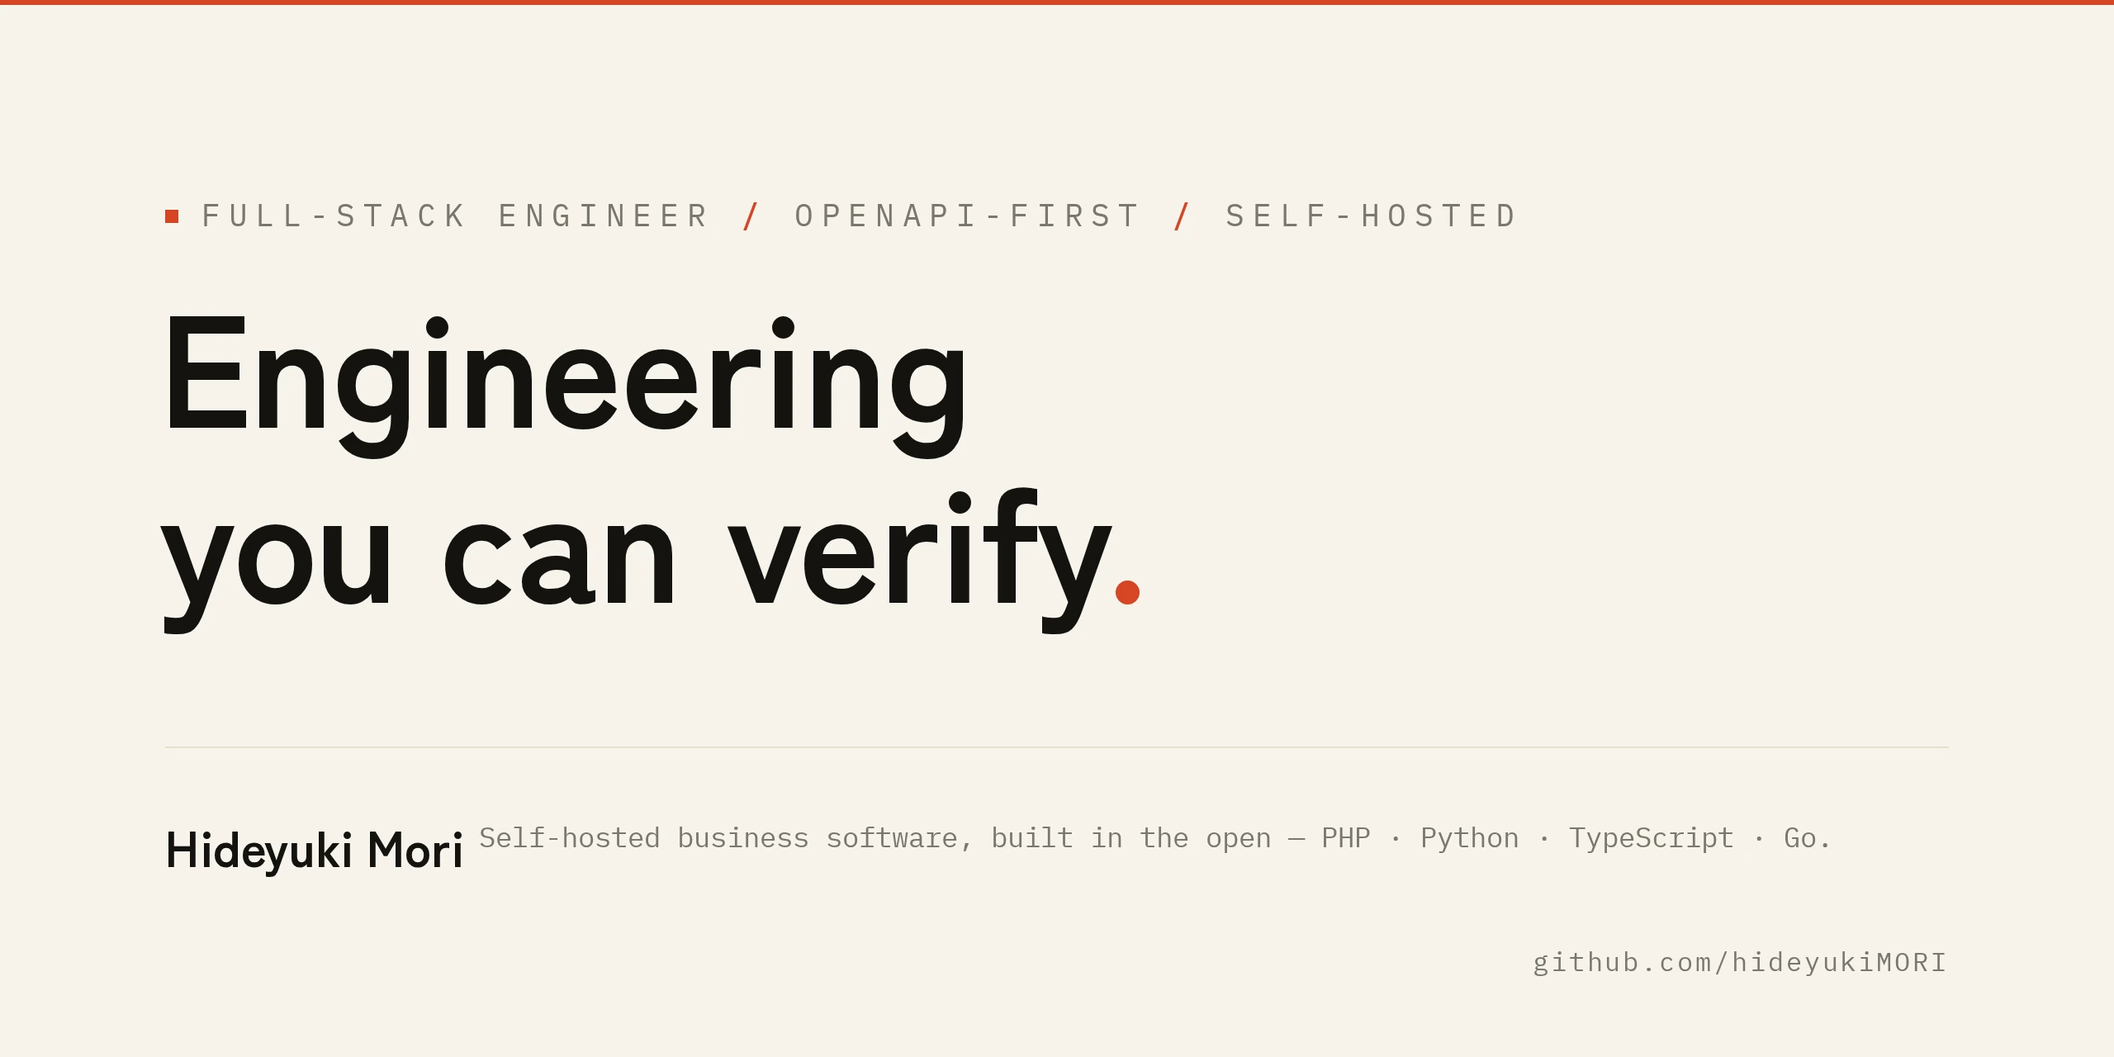
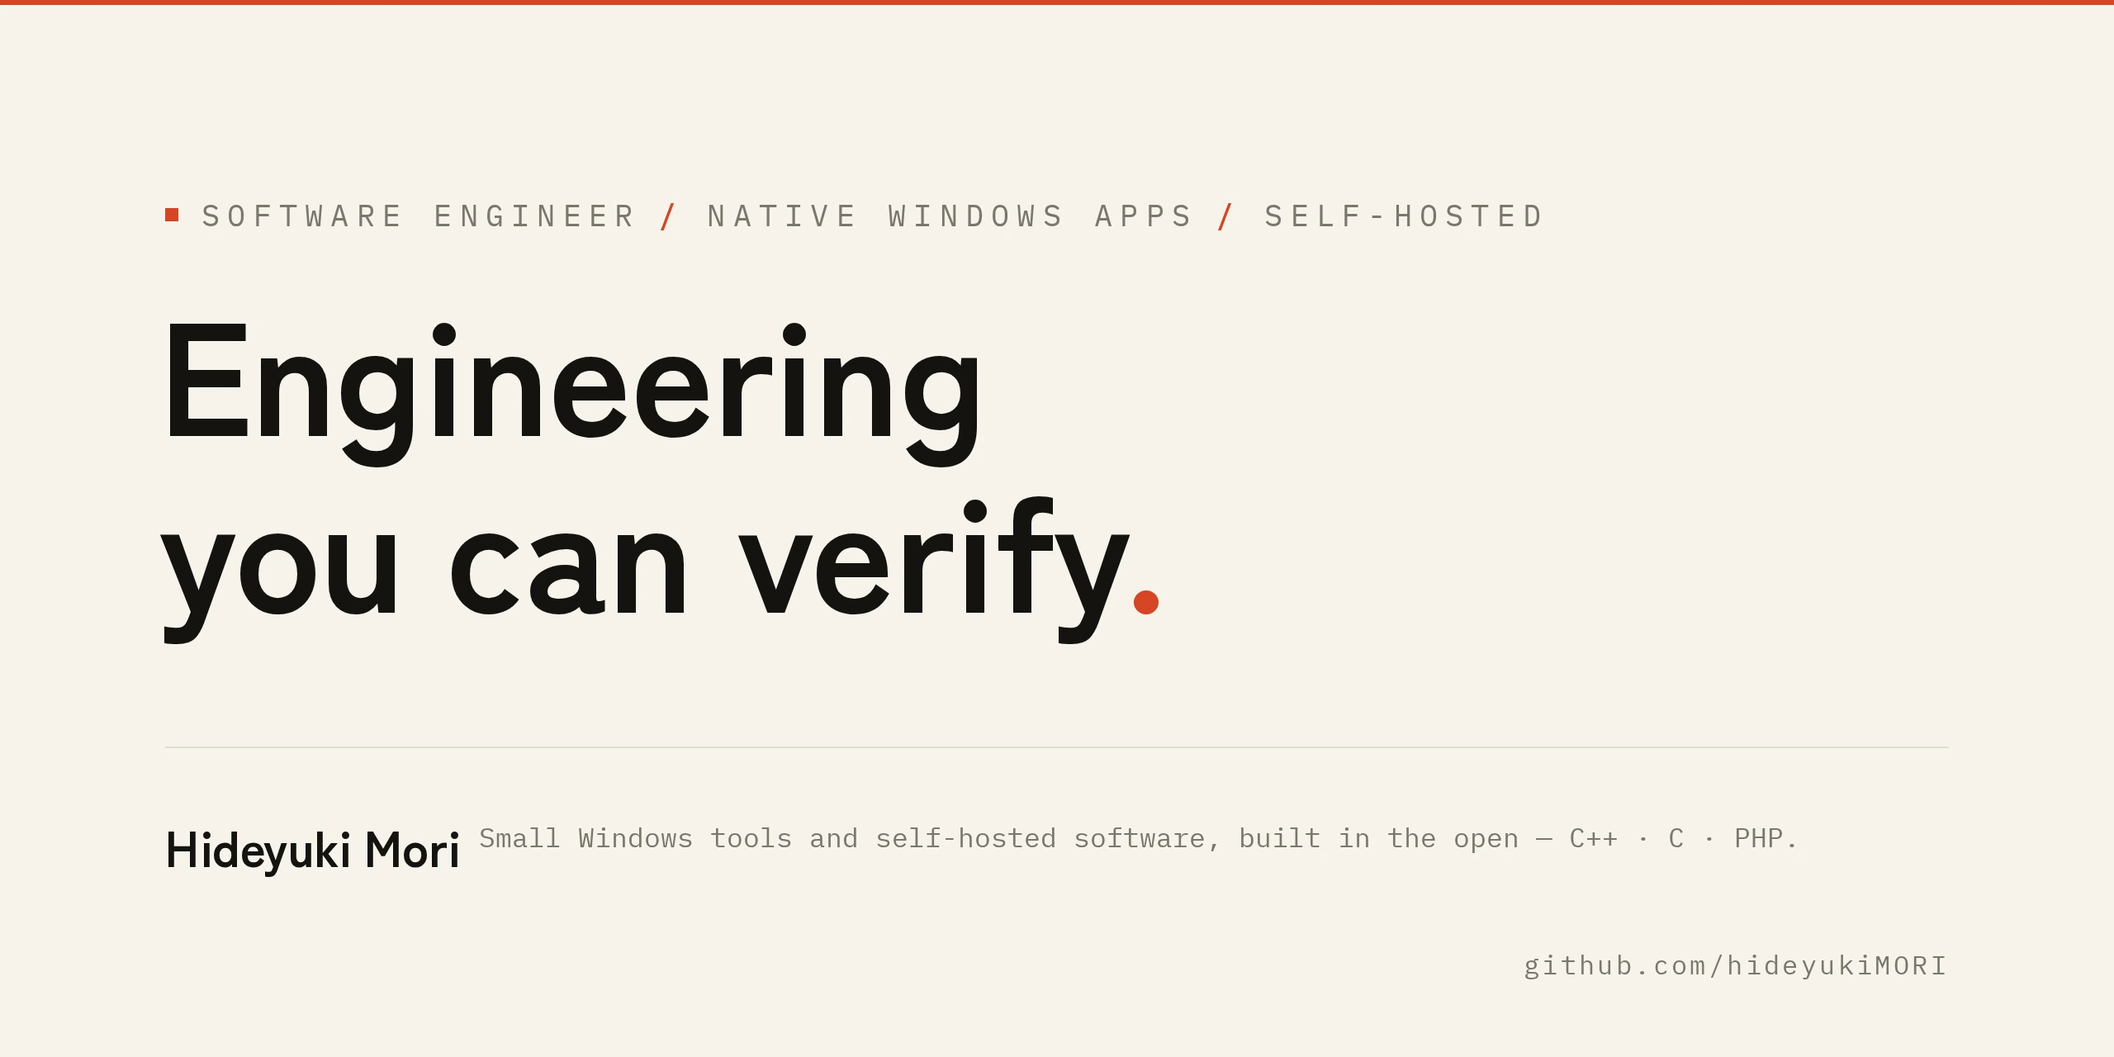
docs: NeNe Nib を先頭で紹介し、NENE2 シリーズは完成度の高いものだけ表に残す (#42)
* docs: NeNe Nib を先頭で紹介し、NENE2 シリーズは完成度の高いものだけ表に残す

- NeNe Nib の節を最上段に新設（機能・Vim 照合・日本語・速度の実測・未対応・ダウンロード）
- ほかの Windows アプリは「More Windows apps」にまとめる
- NENE2 シリーズは NENE2 / nene2-python / Records / Invoice / Corpus / Contact の 6 行にし、残りはリンクの 1 行へ

* docs: 裏の取れていない「毎日使っている」を外す

* docs: ヒーロー画像の文言を Windows アプリ中心に差し替える

- 上段: SOFTWARE ENGINEER / NATIVE WINDOWS APPS / SELF-HOSTED
- 下段: Small Windows tools and self-hosted software, built in the open — C++ · C · PHP.
- 見出し・配色・書体・配置は従来どおり（Zen Kaku Gothic New 700 / IBM Plex Mono）
- 描き出し元の HTML を assets/src/hero.html に置く（1280x640 を 2 倍で撮る。html に class="dark" で暗色）

---------

diff --git a/assets/src/hero.html b/assets/src/hero.html
@@ -1,0 +1,26 @@
+<!doctype html><html><head><meta charset="utf-8">
+<link href="https://fonts.googleapis.com/css2?family=Zen+Kaku+Gothic+New:wght@500;700&family=IBM+Plex+Mono:wght@400;500&display=block" rel="stylesheet">
+<style>
+:root{--bg:#F6F3EC;--ink:#14120F;--mute:#7b766b;--rule:#e2ddd0;--accent:#D64525}
+html.dark{--bg:#14120F;--ink:#F6F3EC;--mute:#a09a8d;--rule:#2a2722}
+*{margin:0;box-sizing:border-box}
+body{width:1280px;height:640px;background:var(--bg);color:var(--ink);position:relative;overflow:hidden;font-family:"Zen Kaku Gothic New",sans-serif}
+.bar{position:absolute;inset:0 0 auto 0;height:3px;background:var(--accent)}
+.eyebrow{position:absolute;left:100px;top:121px;font:400 18.5px/1 "IBM Plex Mono",monospace;letter-spacing:.25em;color:var(--mute);display:flex;align-items:center;white-space:nowrap}
+.eyebrow i{width:8px;height:8px;background:var(--accent);margin-right:14px}
+.eyebrow b{font-weight:500;color:var(--accent);margin:0 .75em 0 .6em}
+h1{position:absolute;left:96px;top:168px;font-weight:700;font-size:97.5px;line-height:107px;letter-spacing:-.01em}
+h1 span{color:var(--accent)}
+.rule{position:absolute;left:100px;right:100px;top:452px;height:1px;background:var(--rule)}
+.name{position:absolute;left:100px;top:492px;font-weight:700;font-size:30px;line-height:40px;letter-spacing:-.005em}
+.line{position:absolute;left:290px;top:495px;font:400 16.6px/24px 'IBM Plex Mono',monospace;color:var(--mute);white-space:nowrap}
+.url{position:absolute;right:100px;top:572px;font:400 16px/24px 'IBM Plex Mono',monospace;letter-spacing:.075em;color:var(--mute)}
+</style></head><body>
+<div class="bar"></div>
+<div class="eyebrow"><i></i>SOFTWARE ENGINEER <b>/</b> NATIVE WINDOWS APPS <b>/</b> SELF-HOSTED</div>
+<h1>Engineering<br>you can verify<span>.</span></h1>
+<div class="rule"></div>
+<div class="name">Hideyuki Mori</div>
+<div class="line">Small Windows tools and self-hosted software, built in the open — C++ · C · PHP.</div>
+<div class="url">github.com/hideyukiMORI</div>
+</body></html>

diff --git a/README.md b/README.md
@@ -8,15 +8,35 @@
 
 ### Software engineer. I build small Windows desktop tools and self-hosted business software in the open, and I put the proof next to every claim.
 
-These days most of my open-source time goes into **native Windows applications** — small, frameless, single-purpose tools written without a UI library. Alongside them I maintain the **NENE2 series**: MIT-licensed, self-hosted business software on one design language across PHP, Python, and TypeScript. Everything below is public and checkable: the code, the tests, the releases, and the architecture decisions.
+These days most of my open-source time goes into **native Windows applications** — small, frameless, single-purpose tools written without a UI library. The one I am working on hardest right now is **[NeNe Nib](#nene-nib--a-fast-text-editor-that-toggles-between-ordinary-and-vim-editing)**, a text editor. Alongside them I maintain the **NENE2 series** of self-hosted business software. Everything below is public and checkable: the code, the tests, the releases, and the architecture decisions.
 
-<sub>日本語: ソフトウェアエンジニア。いまは Windows 向けの小さなネイティブアプリ（UI ライブラリを使わない、枠なし・単機能の道具）を中心に公開開発しています。あわせて、MIT ライセンスの自己ホスト型業務ツール群「NENE2 シリーズ」を保守しています。このページの数字はすべてリンク先で確かめられます。</sub>
+<sub>日本語: ソフトウェアエンジニア。いまは Windows 向けの小さなネイティブアプリ（UI ライブラリを使わない、枠なし・単機能の道具）を中心に公開開発しています。いちばん力を入れているのはテキストエディタ「NeNe Nib」です。あわせて、自己ホスト型業務ツール群「NENE2 シリーズ」を保守しています。このページの数字はすべてリンク先で確かめられます。</sub>
 
 ---
 
-## Windows apps
+## NeNe Nib — a fast text editor that toggles between ordinary and Vim editing
 
-Small tools I use every day. No UI library, no runtime to install, one executable where the platform allows it. Snapshot: October 2026.
+**[github.com/hideyukiMORI/nene-nib](https://github.com/hideyukiMORI/nene-nib)** · Windows 11 x64 · **Beta — [download v0.1.0-beta.2](https://github.com/hideyukiMORI/nene-nib/releases/tag/v0.1.0-beta.2)** (a 0.6 MB ZIP with `SHA256SUMS`; extract and run `NeNeNib.exe`, no installer and no runtime)
+
+One executable. C++23, plain Win32, Direct2D and DirectWrite — no UI library, no runtime dependency. It edits like Notepad until you flip one switch in the status bar; then it is Vim.
+
+| | |
+| --- | --- |
+| **Two ways to edit, one toggle** | Ordinary editing (selection, clipboard, undo/redo, mouse) or Vim NORMAL / INSERT / VISUAL — motions, operators, counts, text objects, registers, macros, `.` repeat, blockwise VISUAL, search with highlighting. |
+| **A Vim engine written from scratch, checked against real Vim** | **1,853 fixtures generated by Vim 9.1** are replayed in the test suite, plus 78 more for movement in wrapped text. What is not implemented yet is listed in the README, command by command. |
+| **Japanese from day one** | IME composition drawn in place; Vim NORMAL turns the IME off and INSERT turns it back on. UTF-8, UTF-8 BOM, and Shift_JIS; CRLF / LF kept as read. |
+| **Tabs and Ctrl+P** | Tabs live in the title bar and come back on the next start with caret and scroll position. Ctrl+P fuzzy-finds open tabs, bookmarks, recently closed files, and files in the current folder. Drop files from Explorer to open them. |
+| **Look** | Frameless window with a Mica title bar, follows the OS light / dark theme. **95 built-in colour schemes** (`:colorscheme`), plus user themes. Line wrapping, font size on Ctrl + wheel. |
+| **Speed, measured** | On the reference machine: startup 191 ms, window visible 35 ms, one keystroke 0.9 ms, a 16 MiB file opens in 250 ms. The benchmark script and reference values are in the repo. |
+| **Not yet** | Markdown preview, files above 64 MiB, syntax highlighting, `:s` / `:g`, split windows. No code signing, installer, or auto-update in the beta. |
+
+Every feature is one numbered requirement in [`SPECIFICATION.md`](https://github.com/hideyukiMORI/nene-nib/blob/main/SPECIFICATION.md); the decisions are in [`docs/adr/`](https://github.com/hideyukiMORI/nene-nib/tree/main/docs/adr) and the measurements in [`docs/quality/gate-proofs.md`](https://github.com/hideyukiMORI/nene-nib/blob/main/docs/quality/gate-proofs.md).
+
+---
+
+## More Windows apps
+
+Small, single-purpose tools. No UI library, no runtime to install. Snapshot: October 2026.
 
 <p align="center">
   <a href="https://apps.microsoft.com/detail/9N6HZB1SXKBM"><img alt="NeNe Loupe — a magnified grid of screen pixels with the centre pixel outlined, and its colour shown as #33E699" src="assets/nene-loupe.webp" width="49%"></a>
@@ -28,19 +48,12 @@ Small tools I use every day. No UI library, no runtime to install, one executabl
 | --- | --- | --- | --- |
 | **[NeNe Loupe](https://github.com/hideyukiMORI/nene-loupe)** | A tiny frameless screen loupe and colour picker. See the pixels behind the lens, copy the colour in the centre. | C++23 · Win32 | **On the [Microsoft Store](https://apps.microsoft.com/detail/9N6HZB1SXKBM)** · [v1.0.0](https://github.com/hideyukiMORI/nene-loupe/releases/latest) · portable ZIP also available |
 | **[NeNe Clock](https://github.com/hideyukiMORI/nene-clock)** | A quiet desktop clock. No frame, no buttons, no tray icon — just the time, in the typeface and colours you choose. | Java 21 · Swing | [v0.2.6](https://github.com/hideyukiMORI/nene-clock/releases/latest) — Windows installer, portable ZIP, Ubuntu `.deb` · Microsoft Store listing in preparation |
-| **[NeNe Nib](https://github.com/hideyukiMORI/nene-nib)** | A fast single-executable text editor that toggles between ordinary editing and Vim editing. Japanese IME, tabs that come back on the next start, 95 built-in themes. | C++23 · Win32 · Direct2D / DirectWrite | **Beta** · [v0.1.0-beta.2](https://github.com/hideyukiMORI/nene-nib/releases/tag/v0.1.0-beta.2) for Windows 11 x64 |
 | **[NeNe Folio](https://github.com/hideyukiMORI/nene-folio)** | A frameless Markdown notebook with a category drawer. View and edit, a short history of every save, search and regex replace, Vim-like keys; UI in 日本語 / English / 简体中文. | C23 · Win32 | v0.1.0 — usable from source · no packaged download yet |
-| **[NeNe Commander](https://github.com/hideyukiMORI/NeNeCommander)** | A keyboard-first dual-pane file manager; Windows, UNC, and WSL paths as typed, explicit boundaries. | C# · .NET 10 · WinUI 3 | In development — most of the MVP scope is on `main`: Vim-first dual panes, fail-closed copy / move / rename / delete on Windows local paths and inside a WSL distribution, UNC directory reads, copy from Windows into WSL · no download yet |
+| **[NeNe Commander](https://github.com/hideyukiMORI/NeNeCommander)** | A keyboard-first dual-pane file manager; Windows, UNC, and WSL paths as typed, explicit boundaries. | C# · .NET 10 · WinUI 3 | In development — most of the MVP scope is on `main` · no download yet |
 
-**How they are built.** Each repository starts from a specification, an architecture constitution, and a test strategy before the first feature. The rule is the same in every one: *every meaning has exactly one canonical implementation path, and the compiler, the build graph, static analysis, and CI enforce that — not memory.* NeNe Nib's Vim mode, for example, is replayed against real Vim 9.1 through 1,853 oracle-generated fixtures. The documents and the measurements are in each repo (`SPECIFICATION.md`, `docs/adr/`, `docs/quality/gate-proofs.md`).
+**How they are built.** Each repository starts from a specification, an architecture constitution, and a test strategy before the first feature. The rule is the same in every one: *every meaning has exactly one canonical implementation path, and the compiler, the build graph, static analysis, and CI enforce that — not memory.*
 
-### Also outside the web stack
-
-| Repo | Ecosystem | What it is |
-| --- | --- | --- |
-| **[NENE-PIXEL](https://github.com/hideyukiMORI/NENE-PIXEL)** | Kotlin · Android | Pixel drawing tool for Android 8.0+ — indexed palettes, up to 16 layers, PNG import/export, reference underlay; single-frame, in development |
-| **[xi-tools](https://github.com/hideyukiMORI/xi-tools)** | Rust | Tools for a many-repo workflow — `scopegrep` (grep that reports *where in the structure* a hit lives), `fleet-top` (dozens of repos on one screen) |
-| **[nene-recall](https://github.com/hideyukiMORI/nene-recall)** | Go · PostgreSQL · pgvector | Hybrid vector + lexical retrieval API, fully local |
+Also outside the web stack: **[NENE-PIXEL](https://github.com/hideyukiMORI/NENE-PIXEL)** (Kotlin · Android — pixel drawing tool with indexed palettes and up to 16 layers, in development) · **[xi-tools](https://github.com/hideyukiMORI/xi-tools)** (Rust — `scopegrep`, `fleet-top`) · **[nene-recall](https://github.com/hideyukiMORI/nene-recall)** (Go · pgvector — local hybrid retrieval API)
 
 ---
 
@@ -50,7 +63,7 @@ Numbers are **measured, not claimed** — each links to where you can check it y
 
 | | |
 | --- | --- |
-| **Shipped** | [NeNe Loupe on the Microsoft Store](https://apps.microsoft.com/detail/9N6HZB1SXKBM) · [NeNe Clock installers](https://github.com/hideyukiMORI/nene-clock/releases/latest) · [NeNe Nib beta](https://github.com/hideyukiMORI/nene-nib/releases/tag/v0.1.0-beta.2) |
+| **Shipped** | [NeNe Nib beta](https://github.com/hideyukiMORI/nene-nib/releases/tag/v0.1.0-beta.2) · [NeNe Loupe on the Microsoft Store](https://apps.microsoft.com/detail/9N6HZB1SXKBM) · [NeNe Clock installers](https://github.com/hideyukiMORI/nene-clock/releases/latest) |
 | **Scale** | **10,900+ merged PRs** across my own repositories ([verify](https://github.com/search?q=is%3Apr+is%3Amerged+author%3AhideyukiMORI+owner%3AhideyukiMORI&type=pullrequests)) · **42 public repos** |
 | **Languages** | C++23 · C23 · Java 21 · C# · Kotlin · Rust · Go · PHP 8.4 · Python 3.14 · TypeScript |
 | **Background** | 25 years of JavaScript and 20 years of PHP as a working engineer, from customer hearings through design, implementation, and operation |
@@ -59,46 +72,20 @@ Numbers are **measured, not claimed** — each links to where you can check it y
 
 ## NENE2 series — status
 
-MIT · self-hosted · OpenAPI-first JSON APIs · RFC 9457 Problem Details · MCP-ready boundaries. Separate repos, separate databases, HTTP contracts only.
+MIT-licensed, self-hosted business software on one design language: OpenAPI-first JSON APIs, RFC 9457 Problem Details, MCP-ready boundaries.
 
-Running: [nene-records.com](https://nene-records.com) · [nene-corpus.com](https://nene-corpus.com) · [NeNe Invoice demo](https://invoice.ayane.co.jp/demo/kensetsu) (a fresh disposable environment per click).
-
-### Frameworks
-
-| Runtime | Stack | Latest | Install |
-| --- | --- | --- | --- |
-| **[NENE2](https://github.com/hideyukiMORI/NENE2)** | PHP 8.4 · OpenAPI · MCP catalog | [v1.12.0](https://github.com/hideyukiMORI/NENE2/releases) | `composer require hideyukimori/nene2` |
-| **[nene2-python](https://github.com/hideyukiMORI/nene2-python)** | FastAPI · `mypy --strict` · Pydantic v2 | [v1.8.164](https://github.com/hideyukiMORI/nene2-python/releases) | `uv add nene2-python` |
-| **[nene2-node](https://github.com/hideyukiMORI/nene2-node)** | Hono · TypeScript strict | [v0.3.0](https://github.com/hideyukiMORI/nene2-node/releases) | `npm i @hideyukimori/nene2-framework` |
-| **[NeNe](https://github.com/hideyukiMORI/NeNe)** | PHP 8.4 · Smarty · a legacy framework renovated in the open | [v0.3.0](https://github.com/hideyukiMORI/NeNe/releases) | [Demo](https://nene-php.com/) |
-
-Frontend standards on npm ([nene2-fleet-tooling](https://github.com/hideyukiMORI/nene2-fleet-tooling)): [`nene2-tokens`](https://www.npmjs.com/package/@hideyukimori/nene2-tokens) v1.3.0 · [`nene2-standards`](https://www.npmjs.com/package/@hideyukimori/nene2-standards) v2.4.0 · [`nene2-ui`](https://www.npmjs.com/package/@hideyukimori/nene2-ui) v0.21.0 · [`nene2-i18n`](https://www.npmjs.com/package/@hideyukimori/nene2-i18n) v0.3.2
-
-### Products
-
-| Product | One line | Status |
+| | What it is | Status |
 | --- | --- | --- |
-| **[NeNe Records](https://github.com/hideyukiMORI/nene-records)** | Headless CMS — typed entities, React admin, multi-tenant | Production SaaS · [v0.5.4](https://github.com/hideyukiMORI/nene-records/releases) |
-| **[NeNe Invoice](https://github.com/hideyukiMORI/nene-invoice)** | 見積・請求・入金 — 適格請求書 PDF | [v1.0.0](https://github.com/hideyukiMORI/nene-invoice/releases) · live demo |
-| **[NeNe Corpus](https://github.com/hideyukiMORI/nene-corpus)** | Knowledge chat with citations | Live |
+| **[NENE2](https://github.com/hideyukiMORI/NENE2)** | PHP 8.4 micro-framework — OpenAPI, MCP catalog, PHPStan level 8 | [v1.12.0](https://github.com/hideyukiMORI/NENE2/releases) · `composer require hideyukimori/nene2` |
+| **[nene2-python](https://github.com/hideyukiMORI/nene2-python)** | The same architecture on FastAPI — `mypy --strict` | [v1.8.164](https://github.com/hideyukiMORI/nene2-python/releases) · `uv add nene2-python` |
+| **[NeNe Records](https://github.com/hideyukiMORI/nene-records)** | Headless CMS — typed entities, React admin, multi-tenant | Production SaaS at [nene-records.com](https://nene-records.com) · [v0.5.4](https://github.com/hideyukiMORI/nene-records/releases) |
+| **[NeNe Invoice](https://github.com/hideyukiMORI/nene-invoice)** | 見積・請求・入金 — 適格請求書 PDF | [v1.0.0](https://github.com/hideyukiMORI/nene-invoice/releases) · [live demo](https://invoice.ayane.co.jp/demo/kensetsu) |
+| **[NeNe Corpus](https://github.com/hideyukiMORI/nene-corpus)** | Knowledge chat with citations | Live at [nene-corpus.com](https://nene-corpus.com) |
 | **[NeNe Contact](https://github.com/hideyukiMORI/nene-contact)** | Embeddable contact forms | In production |
-| **[NeNe Concierge](https://github.com/hideyukiMORI/nene-concierge)** | Visual chat scenarios, embeddable | Working |
-| **[NeNe Serve](https://github.com/hideyukiMORI/nene-serve)** | Self-hosted ad serving | Working |
-| **[NeNe Clear](https://github.com/hideyukiMORI/nene-clear)** | 入金消込・督促 — consumes the Invoice API | Working |
-| **[NeNe Vault](https://github.com/hideyukiMORI/nene-vault)** | 受領文書アーカイブ（電子帳簿保存法） | Working |
-| **[NeNe Profile](https://github.com/hideyukiMORI/nene-profile)** | Bank-CSV normalization | Working |
-| **[NeNe Deal](https://github.com/hideyukiMORI/nene-deal)** | Light B2B pipeline — won → Invoice handoff | Working |
-| **[NeNe Payout](https://github.com/hideyukiMORI/nene-payout)** | Pay received vendor invoices by card | Working |
-| **[NeNe Field](https://github.com/hideyukiMORI/nene-field)** | Daily reports from field workers' phones | Working |
-| **[NeNe Suite](https://github.com/hideyukiMORI/nene-suite)** | Multi-app installer + orchestrator | Working |
 
-Tooling: [nene2-js](https://github.com/hideyukiMORI/nene2-js) (typed HTTP client, [v1.4.0](https://github.com/hideyukiMORI/nene2-js/releases)) · [nene-mcp](https://github.com/hideyukiMORI/nene-mcp) (stdio MCP bridge for any OpenAPI-backed API, [v0.1.8](https://github.com/hideyukiMORI/nene-mcp/releases)) · [NENE2-examples](https://github.com/hideyukiMORI/NENE2-examples) (runnable field-trial apps)
+Other repositories in the series, working but earlier: [nene2-node](https://github.com/hideyukiMORI/nene2-node) · [NeNe](https://github.com/hideyukiMORI/NeNe) · [Concierge](https://github.com/hideyukiMORI/nene-concierge) · [Serve](https://github.com/hideyukiMORI/nene-serve) · [Clear](https://github.com/hideyukiMORI/nene-clear) · [Vault](https://github.com/hideyukiMORI/nene-vault) · [Profile](https://github.com/hideyukiMORI/nene-profile) · [Deal](https://github.com/hideyukiMORI/nene-deal) · [Payout](https://github.com/hideyukiMORI/nene-payout) · [Field](https://github.com/hideyukiMORI/nene-field) · [Suite](https://github.com/hideyukiMORI/nene-suite) · [nene2-js](https://github.com/hideyukiMORI/nene2-js) · [nene-mcp](https://github.com/hideyukiMORI/nene-mcp) · [fleet tooling](https://github.com/hideyukiMORI/nene2-fleet-tooling)
 
-### Quality and security practice
-
-- **Static analysis as a gate** — PHPStan level 8 on the PHP repos, `mypy --strict` on nene2-python, conformance linting across products, dependency audits in CI.
-- **JWT is fail-closed by default** — org isolation denies on any resolver ambiguity rather than falling open.
-- **Security testing is maintainer-run self-assessment** against isolated environments. **It is not a third-party penetration test.** Deepest coverage: NENE2, NeNe Invoice, NeNe Clear.
+Security testing across the series is maintainer-run self-assessment against isolated environments; it is not a third-party penetration test.
 
 ---
 
